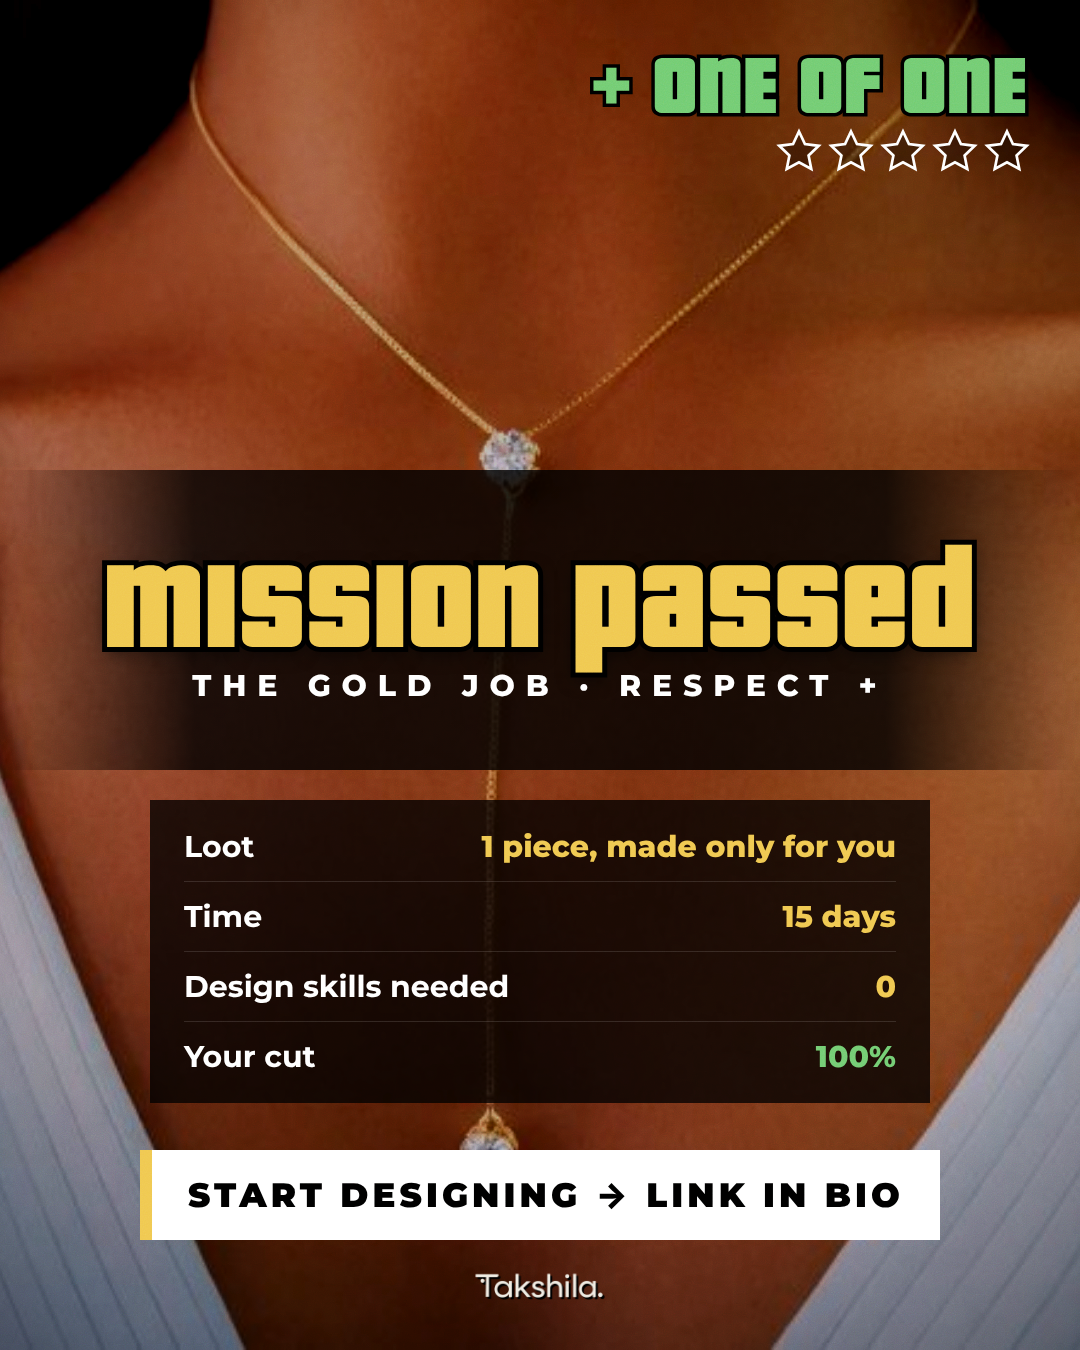
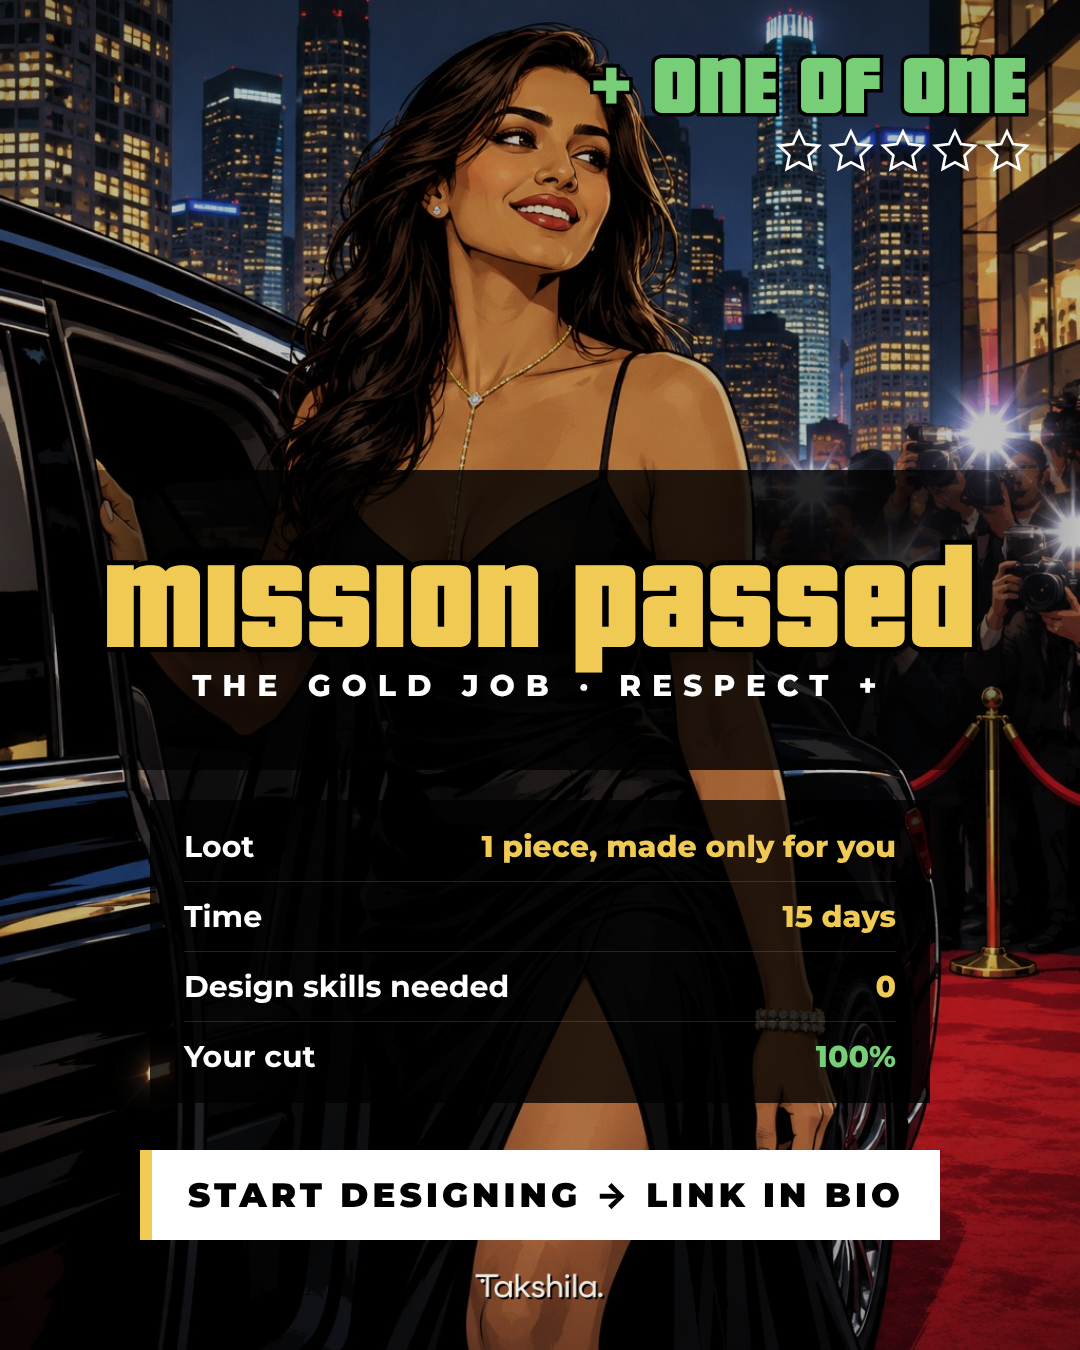
GTA carousels: swap in generated loading-screen-style illustrations
Claude-Session: https://claude.ai/code/session_01VXfb5SGCGkjs1XorxtizRz

diff --git a/carousels/takshila-gta/gta.html b/carousels/takshila-gta/gta.html
@@ -187,8 +187,8 @@ body{background:#111;padding:40px;display:flex;flex-wrap:wrap;gap:40px;justify-c
 
 <!-- ================= S1 · BOX-ART COVER ================= -->
 <section class="slide grain" data-name="1-cover">
-  <div class="grid-p" style="left:14px;top:14px;width:520px;height:346px"><img class="graded" src="assets/hand-ring.jpg" style="object-position:35% 50%"></div>
-  <div class="grid-p" style="left:548px;top:14px;width:250px;height:346px"><img class="graded" src="assets/ruby-halo.jpg"></div>
+  <div class="grid-p" style="left:14px;top:14px;width:520px;height:346px"><img src="assets/gen/vault.jpg" style="object-position:50% 40%"></div>
+  <div class="grid-p" style="left:548px;top:14px;width:250px;height:346px"><img src="assets/gen/jeweler.jpg" style="object-position:40% 40%"></div>
   <div class="grid-p" style="left:812px;top:14px;width:254px;height:346px"><img class="graded" src="assets/pear-ring.jpg"></div>
   <div class="titlebox" style="left:14px;top:374px;width:1052px;height:300px">
     <img src="assets/logo-light.png" style="height:0">
@@ -196,33 +196,33 @@ body{background:#111;padding:40px;display:flex;flex-wrap:wrap;gap:40px;justify-c
     <div class="t2">THE GOLD JOB</div>
     <div class="t3">HAND-CRAFTED · ONE OF ONE · 15 DAYS</div>
   </div>
-  <div class="grid-p" style="left:14px;top:688px;width:520px;height:648px"><img class="graded" src="assets/lariat-neck.jpg" style="object-position:50% 30%"></div>
-  <div class="grid-p" style="left:548px;top:688px;width:518px;height:300px"><img class="graded" src="assets/tennis.jpg" style="object-position:50% 60%"></div>
-  <div class="grid-p" style="left:548px;top:1002px;width:250px;height:334px"><img class="graded" src="assets/anklet.jpg" style="object-position:60% 50%"></div>
-  <div class="grid-p" style="left:812px;top:1002px;width:254px;height:334px"><img class="graded" src="assets/hand-roses.jpg"></div>
+  <div class="grid-p" style="left:14px;top:688px;width:520px;height:648px"><img src="assets/gen/hero.jpg" style="object-position:50% 30%"></div>
+  <div class="grid-p" style="left:548px;top:688px;width:518px;height:300px"><img src="assets/gen/courier.jpg" style="object-position:50% 45%"></div>
+  <div class="grid-p" style="left:548px;top:1002px;width:250px;height:334px"><img src="assets/gen/molten-gold.jpg" style="object-position:50% 50%"></div>
+  <div class="grid-p" style="left:812px;top:1002px;width:254px;height:334px"><img class="graded" src="assets/ruby-halo.jpg"></div>
   <div class="stars" style="top:30px;right:30px"><svg class="on"><use href="#star"/></svg><svg class="on"><use href="#star"/></svg><svg class="on"><use href="#star"/></svg><svg class="on"><use href="#star"/></svg><svg class="on"><use href="#star"/></svg></div>
   <div class="swipe" style="right:30px;bottom:30px">SWIPE TO PLAY <b>▶</b></div>
 </section>
 
 <!-- ================= S2 · MISSION START ================= -->
 <section class="slide grain" data-name="2-mission-the-pitch">
-  <img class="bg graded" src="assets/hand-ring.jpg" style="object-position:38% 50%">
+  <img class="bg" src="assets/gen/diner.jpg" style="object-position:50% 50%">
   <div class="grade-ov"></div><div class="vig"></div>
   <div class="help">Describe your dream piece <em>in your own words.</em> Press <span class="key">A</span> to add a sketch or photo.</div>
   <div class="cash">$0</div>
   <div class="stars"><svg class="off"><use href="#star"/></svg><svg class="off"><use href="#star"/></svg><svg class="off"><use href="#star"/></svg><svg class="off"><use href="#star"/></svg><svg class="off"><use href="#star"/></svg></div>
-  <div class="abs" style="left:0;right:0;top:250px;text-align:center;z-index:30">
+  <div class="abs" style="left:0;right:0;top:690px;text-align:center;z-index:30">
     <div class="mlabel">Mission 01</div>
-    <div class="mtitle" style="font-size:210px;margin-top:10px">The Pitch</div>
+    <div class="mtitle" style="font-size:180px;margin-top:6px">The Pitch</div>
   </div>
-  <div class="sub"><span class="n1">Ana (Takshila jeweler):</span> So… what are we making?<br><span class="n2">You:</span> A vine bracelet with tiny marquise diamonds.</div>
+  <div class="sub" style="bottom:270px;font-size:34px"><span class="n1">Ana (Takshila jeweler):</span> So… what are we making?<br><span class="n2">You:</span> A vine bracelet with tiny marquise diamonds.</div>
   <div class="radar"><div class="map"><div class="me"></div><div class="blip" style="left:212px;top:40px">T</div></div><div class="bars"><i></i><i style="--c:var(--ar);--v:60%"></i></div></div>
   <img class="logo" src="assets/logo-light.png" alt="Takshila">
 </section>
 
 <!-- ================= S3 · SELECTION WHEEL ================= -->
 <section class="slide grain" data-name="3-choose-your-loot">
-  <img class="bg" src="assets/hand-roses.jpg" style="filter:blur(26px) brightness(.45) saturate(1.3);transform:scale(1.15)">
+  <img class="bg" src="assets/gen/vault.jpg" style="filter:blur(14px) brightness(.45) saturate(1.3);transform:scale(1.15)">
   <div class="cash">$0</div>
   <div class="abs" style="left:44px;top:60px;z-index:30">
     <div class="mlabel">Mission 01</div>
@@ -235,14 +235,14 @@ body{background:#111;padding:40px;display:flex;flex-wrap:wrap;gap:40px;justify-c
 
 <!-- ================= S4 · CREW ================= -->
 <section class="slide grain" data-name="4-pick-your-crew">
-  <img class="bg" src="assets/pear-solitaire.jpg" style="filter:blur(24px) brightness(.4) saturate(1.3);transform:scale(1.15)">
+  <img class="bg" src="assets/gen/boss.jpg" style="filter:blur(14px) brightness(.4) saturate(1.3);transform:scale(1.15)">
   <div class="cash">$0</div>
   <div class="abs" style="left:44px;top:60px;z-index:30">
     <div class="mlabel">Mission 02 · The plan</div>
     <div class="mtitle" style="font-size:130px;margin-top:8px">Pick your crew</div>
   </div>
   <div class="crew" style="left:44px">
-    <div class="ph"><img class="graded" src="assets/pear-solitaire.jpg"><div class="role">PLANNER</div></div>
+    <div class="ph"><img src="assets/gen/laptop.jpg" style="object-position:50% 45%"><div class="role">PLANNER</div></div>
     <h3>AI Design Studio</h3>
     <p>Drafts your idea into a real design in moments.</p>
     <div class="skill"><label>SPEED <span>100%</span></label><div class="seg"><i class="f"></i><i class="f"></i><i class="f"></i><i class="f"></i><i class="f"></i></div></div>
@@ -250,7 +250,7 @@ body{background:#111;padding:40px;display:flex;flex-wrap:wrap;gap:40px;justify-c
     <div class="cut">CUT <b>0%</b></div>
   </div>
   <div class="crew" style="left:382px">
-    <div class="ph"><img class="graded" src="assets/twist-hoops.jpg"><div class="role">SPECIALIST</div></div>
+    <div class="ph"><img src="assets/gen/jeweler.jpg" style="object-position:45% 35%"><div class="role">SPECIALIST</div></div>
     <h3>Master Jeweler</h3>
     <p>Refines every detail with you, in 3D. Then crafts it by hand.</p>
     <div class="skill"><label>CRAFT <span>100%</span></label><div class="seg"><i class="f"></i><i class="f"></i><i class="f"></i><i class="f"></i><i class="f"></i></div></div>
@@ -258,7 +258,7 @@ body{background:#111;padding:40px;display:flex;flex-wrap:wrap;gap:40px;justify-c
     <div class="cut">CUT <b>0%</b></div>
   </div>
   <div class="crew sel" style="left:720px">
-    <div class="ph"><img class="graded" src="assets/hand-ring2.jpg"><div class="role" style="background:var(--gold-hi);color:#000">THE BOSS</div></div>
+    <div class="ph"><img src="assets/gen/boss.jpg" style="object-position:45% 25%"><div class="role" style="background:var(--gold-hi);color:#000">THE BOSS</div></div>
     <h3>You</h3>
     <p>Final say on everything. Nothing moves without your yes.</p>
     <div class="skill"><label>VISION <span>100%</span></label><div class="seg" style="--c:var(--cash)"><i class="f"></i><i class="f"></i><i class="f"></i><i class="f"></i><i class="f"></i></div></div>
@@ -271,7 +271,7 @@ body{background:#111;padding:40px;display:flex;flex-wrap:wrap;gap:40px;justify-c
 
 <!-- ================= S5 · INTERACTION MENU ================= -->
 <section class="slide grain" data-name="5-approve-design">
-  <img class="bg graded" src="assets/pear-solitaire.jpg" style="object-position:60% 50%">
+  <img class="bg" src="assets/gen/laptop.jpg" style="object-position:50% 50%;transform:scaleX(-1)">
   <div class="grade-ov"></div><div class="vig"></div>
   <div class="cash">$0</div>
   <div class="stars"><svg class="on"><use href="#star"/></svg><svg class="on"><use href="#star"/></svg><svg class="off"><use href="#star"/></svg><svg class="off"><use href="#star"/></svg><svg class="off"><use href="#star"/></svg></div>
@@ -297,7 +297,7 @@ body{background:#111;padding:40px;display:flex;flex-wrap:wrap;gap:40px;justify-c
 
 <!-- ================= S6 · PAUSE MENU STATS ================= -->
 <section class="slide grain" data-name="6-piece-stats">
-  <img class="bg" src="assets/twist-hoops.jpg" style="filter:blur(22px) brightness(.5) saturate(1.4);transform:scale(1.15)">
+  <img class="bg" src="assets/gen/molten-gold.jpg" style="filter:blur(14px) brightness(.5) saturate(1.4);transform:scale(1.15)">
   <div class="pm">
     <div class="brand"><h2>Mission 04<br><span style="color:var(--gold-hi)">The Craft</span></h2><small>CREW: AI · JEWELER · YOU<br>STATUS: IN PROGRESS</small></div>
     <div class="tabs"><div>MAP</div><div>BRIEF</div><div class="on">STATS</div><div>DELIVERY</div></div>
@@ -307,7 +307,7 @@ body{background:#111;padding:40px;display:flex;flex-wrap:wrap;gap:40px;justify-c
         <div class="rowi on">Your piece</div>
         <div class="rowi">Certificates</div>
         <div class="rowi">Updates</div>
-        <div class="shot"><img class="graded" src="assets/twist-hoops.jpg"></div>
+        <div class="shot"><img src="assets/gen/molten-gold.jpg" style="object-position:50% 45%"></div>
       </div>
       <div class="right">
         <div class="stat"><label>SOLID GOLD <b>14K / 18K</b></label><div class="seg"><i class="f"></i><i class="f"></i><i class="f"></i><i class="f"></i><i class="f"></i></div></div>
@@ -324,7 +324,7 @@ body{background:#111;padding:40px;display:flex;flex-wrap:wrap;gap:40px;justify-c
 
 <!-- ================= S7 · HEIST COMPLETE ================= -->
 <section class="slide grain" data-name="7-mission-passed">
-  <img class="bg graded" src="assets/lariat-neck.jpg" style="object-position:50% 25%">
+  <img class="bg" src="assets/gen/red-carpet.jpg" style="object-position:50% 30%">
   <div class="grade-ov"></div><div class="vig"></div>
   <div class="abs" style="inset:0;background:rgba(0,0,0,.25)"></div>
   <div class="cash">+ ONE OF ONE</div>
@@ -343,7 +343,7 @@ body{background:#111;padding:40px;display:flex;flex-wrap:wrap;gap:40px;justify-c
 
 <!-- ======================= MOST WANTED ======================= -->
 <section class="slide grain" data-set="most-wanted" data-name="1-cover">
-  <img class="bg" src="assets/ruby-halo.jpg" style="filter:blur(30px) brightness(.35) saturate(1.4);transform:scale(1.2)">
+  <img class="bg" src="assets/gen/police-street.jpg" style="filter:brightness(.6) saturate(1.2)">
   <div class="siren"></div><div class="siren-bar"></div>
   <div class="blabel">TOTAL BOUNTY</div><div class="cash">$4,530</div>
   <div class="abs" style="left:0;right:0;top:130px;z-index:30;text-align:center">
@@ -356,7 +356,7 @@ body{background:#111;padding:40px;display:flex;flex-wrap:wrap;gap:40px;justify-c
   <img class="logo" src="assets/logo-light.png" style="left:60px;right:auto;top:56px;bottom:auto;height:46px" alt="Takshila">
 </section>
 <section class="slide grain" data-set="most-wanted" data-name="2-diamond-drop-lariat">
-  <img class="bg" src="assets/lariat-neck.jpg" style="filter:blur(30px) brightness(.35) saturate(1.3);transform:scale(1.2)">
+  <img class="bg" src="assets/gen/police-street.jpg" style="filter:blur(6px) brightness(.45) saturate(1.2);transform:scale(1.05)">
   <div class="siren"></div><div class="siren-bar"></div>
   <div class="blabel">BOUNTY</div><div class="cash">$680</div>
   <div class="stars hot"><svg class="on"><use href="#star"/></svg><svg class="on"><use href="#star"/></svg><svg class="on"><use href="#star"/></svg><svg class="on"><use href="#star"/></svg><svg class="on"><use href="#star"/></svg></div>
@@ -377,7 +377,7 @@ body{background:#111;padding:40px;display:flex;flex-wrap:wrap;gap:40px;justify-c
   <img class="logo" src="assets/logo-light.png" style="bottom:36px;height:40px" alt="Takshila">
 </section>
 <section class="slide grain" data-set="most-wanted" data-name="3-pear-bypass-ring">
-  <img class="bg" src="assets/pear-ring.jpg" style="filter:blur(30px) brightness(.35) saturate(1.3);transform:scale(1.2)">
+  <img class="bg" src="assets/gen/police-street.jpg" style="filter:blur(6px) brightness(.45) saturate(1.2);transform:scale(1.05)">
   <div class="siren flip"></div><div class="siren-bar"></div>
   <div class="blabel">BOUNTY</div><div class="cash">$620</div>
   <div class="stars hot"><svg class="on"><use href="#star"/></svg><svg class="on"><use href="#star"/></svg><svg class="on"><use href="#star"/></svg><svg class="on"><use href="#star"/></svg><svg class="on"><use href="#star"/></svg></div>
@@ -398,7 +398,7 @@ body{background:#111;padding:40px;display:flex;flex-wrap:wrap;gap:40px;justify-c
   <img class="logo" src="assets/logo-light.png" style="bottom:36px;height:40px" alt="Takshila">
 </section>
 <section class="slide grain" data-set="most-wanted" data-name="4-classic-tennis-bracelet">
-  <img class="bg" src="assets/tennis.jpg" style="filter:blur(30px) brightness(.35) saturate(1.3);transform:scale(1.2)">
+  <img class="bg" src="assets/gen/police-street.jpg" style="filter:blur(6px) brightness(.45) saturate(1.2);transform:scale(1.05)">
   <div class="siren"></div><div class="siren-bar"></div>
   <div class="blabel">BOUNTY</div><div class="cash">$780</div>
   <div class="stars hot"><svg class="on"><use href="#star"/></svg><svg class="on"><use href="#star"/></svg><svg class="on"><use href="#star"/></svg><svg class="on"><use href="#star"/></svg><svg class="on"><use href="#star"/></svg></div>
@@ -419,7 +419,7 @@ body{background:#111;padding:40px;display:flex;flex-wrap:wrap;gap:40px;justify-c
   <img class="logo" src="assets/logo-light.png" style="bottom:36px;height:40px" alt="Takshila">
 </section>
 <section class="slide grain" data-set="most-wanted" data-name="5-ruby-halo-ring">
-  <img class="bg" src="assets/ruby-halo.jpg" style="filter:blur(30px) brightness(.35) saturate(1.3);transform:scale(1.2)">
+  <img class="bg" src="assets/gen/police-street.jpg" style="filter:blur(6px) brightness(.45) saturate(1.2);transform:scale(1.05)">
   <div class="siren flip"></div><div class="siren-bar"></div>
   <div class="blabel">BOUNTY</div><div class="cash">$2,450</div>
   <div class="stars hot"><svg class="on"><use href="#star"/></svg><svg class="on"><use href="#star"/></svg><svg class="on"><use href="#star"/></svg><svg class="on"><use href="#star"/></svg><svg class="on"><use href="#star"/></svg></div>
@@ -440,16 +440,14 @@ body{background:#111;padding:40px;display:flex;flex-wrap:wrap;gap:40px;justify-c
   <img class="logo" src="assets/logo-light.png" style="bottom:36px;height:40px" alt="Takshila">
 </section>
 <section class="slide grain" data-set="most-wanted" data-name="6-lose-the-heat">
-  <img class="bg graded" src="assets/peridot.jpg" style="filter:blur(18px) brightness(.45) saturate(1.3);transform:scale(1.15)">
+  <img class="bg" src="assets/gen/car-park.jpg"><div class="abs" style="inset:0;z-index:1;background:linear-gradient(180deg,rgba(0,0,0,.15) 0%,rgba(0,0,0,.1) 40%,rgba(0,0,0,.85) 72%)"></div>
   <div class="siren" style="opacity:.35"></div>
   <div class="cash">$0</div>
   <div class="stars"><svg class="off"><use href="#star"/></svg><svg class="off"><use href="#star"/></svg><svg class="off"><use href="#star"/></svg><svg class="off"><use href="#star"/></svg><svg class="off"><use href="#star"/></svg></div>
-  <div class="help">Everyone's chasing the same pieces. Want one <em>nobody else has?</em> Press <span class="key">A</span> to design your own.</div>
-  <img src="assets/cut/peridot.png" class="abs" style="right:70px;top:300px;height:520px;z-index:15;filter:drop-shadow(12px 20px 16px rgba(0,0,0,.6))">
-  <div class="abs" style="left:60px;top:470px;z-index:30">
+  <div class="abs" style="left:60px;right:60px;top:760px;z-index:30">
     <div class="mlabel">Wanted level cleared</div>
-    <div class="mtitle" style="font-size:150px;margin-top:12px">lose the<br>heat.</div>
-    <div class="mtitle" style="font-size:118px;margin-top:20px;color:var(--gold-hi)">go one<br>of one.</div>
+    <div class="mtitle" style="font-size:118px;margin-top:10px">lose the heat.</div>
+    <div class="mtitle" style="font-size:96px;margin-top:6px;color:var(--gold-hi)">go one of one.</div>
   </div>
   <div class="abs" style="left:60px;right:60px;top:1050px;z-index:30;background:rgba(0,0,0,.8);padding:22px 28px;font:600 28px/1.4 var(--M)">Describe it. Approve it in 3D. Hand-crafted in solid gold and delivered in <span style="color:var(--gold-hi)">15 days.</span></div>
   <div class="cta" style="bottom:56px">DESIGN YOURS → LINK IN BIO</div>

diff --git a/carousels/takshila-gta/README.md b/carousels/takshila-gta/README.md
@@ -32,3 +32,7 @@ Pricedown (Typodermic) is free for commercial **static** work like these images,
 
 1. Download it from dafont.com/pricedown.font.
 2. Save `Pricedown Bl.otf` as `fonts/pricedown.otf`.
+
+## Art
+
+`assets/gen/` holds 11 AI-generated illustrations in a crime-game loading-screen style, made with Figma's image generator (Figma file: "Takshila GTA carousel art" in the Filament team). They're used for scenes, characters and backgrounds. Priced products on the Most Wanted slides use real product photos, so the jewellery shown is what's actually sold.
